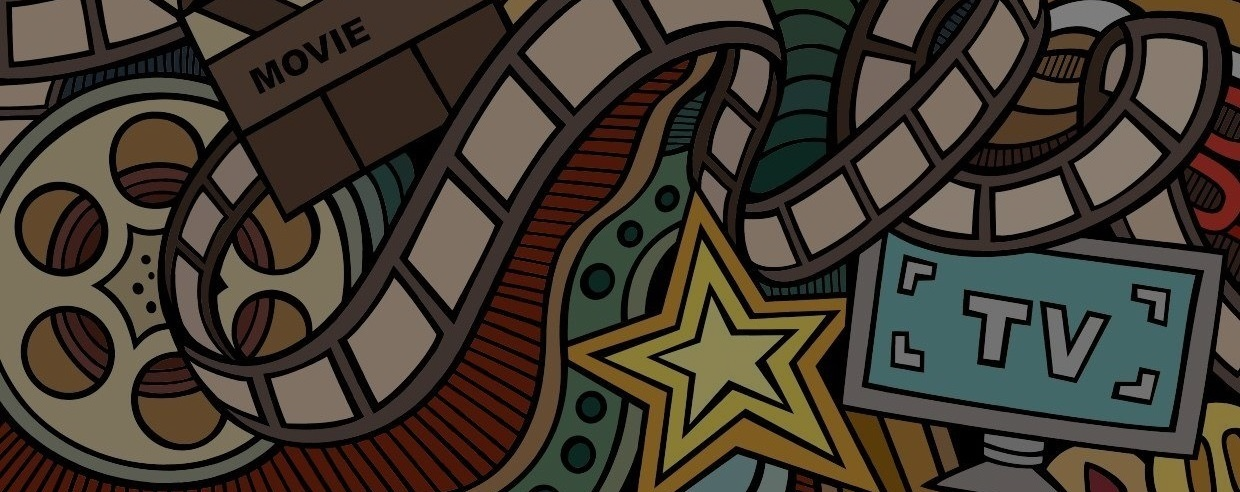
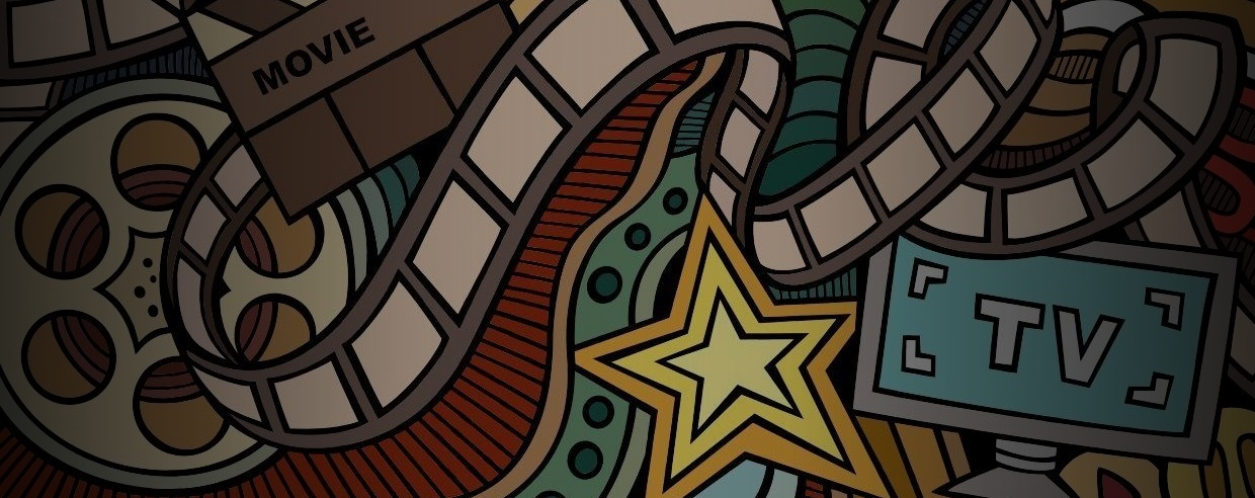
[Updated Landing Page]

diff --git a/src/components/Landing/Landing.js b/src/components/Landing/Landing.js
@@ -3,6 +3,7 @@ import Flash from "react-reveal/Flash";
 
 import classes from "./Landing.module.css";
 import NavBar from "../Navigation/NavBar";
+import Footer from "../UI/Footer/Footer";
 
 class Landing extends Component {
     state = {
@@ -20,10 +21,31 @@ class Landing extends Component {
         return (
             <div className={classes.Landing}>
                 <NavBar />
-                <Flash appear={true} spy={this.state.animate} count={2} duration={200}>
-                    <h1 className={classes.Content}>MOVIE PLEASE</h1>
-                </Flash>
-                <button className={classes.Button}>DIVE IN</button>
+                <div className={classes.Flex}>
+                    <div>
+                        <Flash
+                            appear={true}
+                            spy={this.state.animate}
+                            count={2}
+                            duration={200}
+                        >
+                            <h1 className={classes.Content}>MOVIE PLEASE!</h1>
+                        </Flash>
+                        <p className={classes.P}>Bored? Watch a movie now!</p>
+                        <button className={classes.Button}>Dive In</button>
+                    </div>
+                    <div>
+                        <iframe
+                            width="560"
+                            height="315"
+                            src="https://www.youtube.com/embed/rlR4PJn8b8I?autoplay=1&mute=1"
+                            title="YouTube video player"
+                            frameBorder="0"
+                            allow="fullscreen; accelerometer; autoplay; clipboard-write; encrypted-media; gyroscope; picture-in-picture"
+                        ></iframe>
+                    </div>
+                </div>
+                <Footer />
             </div>
         );
     }

diff --git a/src/components/Landing/Landing.module.css b/src/components/Landing/Landing.module.css
@@ -1,36 +1,58 @@
 .Landing {
   background-image: url("../../assets/background.png");
+  /* background-image: url("../../assets/rect3221.png"); */
   background-size: 100% 100%;
   width: 100vw;
-  height: 100vh;
   position: absolute;
   top: 0;
   left: 0;
+  background-attachment: fixed;
 }
 .Content {
   font-family: "Alfa Slab One", cursive;
-  font-size: 15vh;
-  width: 50vw;
-  margin: 6vh auto 0 auto;
-  color: #ffffff;
+  font-size: 7vw;
+  width: 45vw;
+  margin: auto auto 1.2vh auto;
+  color: white;
   letter-spacing: 11px;
   -webkit-text-stroke-width: 3px;
-  -webkit-text-stroke-color: #ec4646;
+  -webkit-text-stroke-color: #ff0000da;
+  text-align: center;
+  line-height: 15vh;
+}
+.P {
+  font-family: "Alegreya Sans", sans-serif;
+  color: rgb(255, 255, 255);
+  font-size: 2.5vw;
+  margin: 0 auto 3vh 0;
 }
 .Button {
   padding: 1.3vh 1vw;
   font-family: "Alegreya Sans", sans-serif;
-  font-size: 8vh;
+  font-size: 2.5vw;
   background-color: #ec4646;
   border: none;
   cursor: pointer;
   color: white;
   padding: 2vh 10vw;
-  margin-top: 5vh;
+  margin-top: 0vh;
 }
 .Button:hover,
 .Button:active {
-  color: #ec4646;
-  background-color: white;
-  font-size: 10vh;
+  color: white;
+  background-color: black;
+  font-size: 3vw;
+}
+.Flex {
+  display: flex;
+  flex-direction: row;
+  justify-content: space-around;
+  align-items: center;
+  margin-top: 5vh;
+}
+.Flex iframe {
+  /* margin-top: 4vh; */
+  width: 45vw;
+  height: 60vh;
+  box-shadow: 0px 0px 250px rgb(39, 7, 7);
 }

diff --git a/src/components/Navigation/NavBar.js b/src/components/Navigation/NavBar.js
@@ -1,27 +1,27 @@
 import React from "react";
+import { withRouter } from "react-router-dom";
 
 import NavItem from "./NavItem/NavItem";
-import { Route } from "react-router-dom";
 import Logo from "../UI/Logo/Logo";
 import classes from "./NavBar.module.css";
 
 const NavBar = (props) => {
+    // console.log(props);
     return (
         <div className={classes.NavBar}>
             <Logo />
             <ul className={classes.NavItems}>
-                <Route
-                    path="/"
-                    exact
-                    render={() => (
-                        <NavItem link="/signin">
-                            <button className={classes.Button}>Sign In</button>
-                        </NavItem>
-                    )}
-                />
+                <NavItem link="/premium">
+                    <button className={classes.Button + ' ' + classes.Plus}>Get Plus</button>
+                </NavItem>
+                {props.location.pathname === "/" && (
+                    <NavItem link="/signin">
+                        <button className={classes.Button}>Sign In</button>
+                    </NavItem>
+                )}
             </ul>
         </div>
     );
 };
 
-export default NavBar;
+export default withRouter(NavBar);

diff --git a/src/components/UI/Footer/Footer.module.css b/src/components/UI/Footer/Footer.module.css
@@ -1,0 +1,38 @@
+.Footer i {
+  color: white;
+  font-size: 2.5vw;
+  margin-left: 0.3vw;
+}
+:global .fa-instagram-square:hover {
+  background: radial-gradient(
+    circle at 30% 107%,
+    #fdf497 0%,
+    #fdf497 5%,
+    #fd5949 45%,
+    #d6249f 60%,
+    #285aeb 90%
+  );
+  -webkit-background-clip: text;
+  background-clip: text;
+  -webkit-text-fill-color: transparent;
+}
+:global .fa-facebook-square:hover {
+  color: #1873ea;
+}
+:global .fa-twitter-square:hover {
+  color: #1d9cea;
+}
+:global .fa-youtube-square:hover {
+  color: #f24423;
+}
+.Footer {
+  list-style: none;
+  display: flex;
+  width: 14vw;
+  position: relative;
+  left: 42vw;
+  margin-top: 7vh;
+}
+.P{
+    color: white;
+}

diff --git a/src/components/UI/Footer/Footer.js b/src/components/UI/Footer/Footer.js
@@ -1,0 +1,20 @@
+import React from "react";
+
+import Aux from "../../../hoc/Aux/Aux";
+import classes from "./Footer.module.css";
+
+const Footer = (props) => {
+    return (
+        <Aux>
+            <ul className={classes.Footer}>
+                <li><i className="fab fa-instagram-square"></i></li>
+                <li><i className="fab fa-facebook-square"></i></li>
+                <li><i className="fab fa-twitter-square"></i></li>
+                <li><i className="fab fa-youtube-square"></i></li>
+            </ul>
+            <p className={classes.P}>© Binge it 2021</p>
+        </Aux>
+    );
+};
+
+export default Footer;

diff --git a/src/components/UI/Logo/Logo.module.css b/src/components/UI/Logo/Logo.module.css
@@ -1,6 +1,6 @@
 .Logo {
   font-family: "Dancing Script", cursive;
-  font-size: 9vh;
+  font-size: 4.5vw;
   color: white;
   text-align: center;
   -webkit-animation: glow 5s ease-in-out infinite alternate;
@@ -10,8 +10,8 @@
 
 @keyframes glow {
   from {
-    text-shadow: 0 0 3px #fff, 0 0 13px #fff, 0 0 23px #e0d205,
-      0 0 33px #e0d205, 0 0 43px #e0d205, 0 0 53px #e0d205, 0 0 63px #e0d205;
+    text-shadow: 0 0 3px #fff, 0 0 13px #fff, 0 0 23px #ec4646,
+      0 0 33px #ec4646, 0 0 43px #ec4646, 0 0 53px #ec4646, 0 0 63px #ec4646;
   }
   to {
     text-shadow: 0 0 13px #fff, 0 0 23px #ff4da6, 0 0 33px #ff4da6,

diff --git a/src/components/Navigation/NavBar.module.css b/src/components/Navigation/NavBar.module.css
@@ -5,12 +5,15 @@
   margin: 2vh 5vw;
 }
 .NavItems {
+  display: flex;
+  justify-content: space-around;
   list-style: none;
+  flex-direction: row;
 }
 .Button {
   padding: 1.3vh 1vw;
   font-family: "Alegreya Sans", sans-serif;
-  font-size: 4vh;
+  font-size: 1.7vw;
   background-color: #ec4646;
   border: none;
   cursor: pointer;
@@ -21,5 +24,15 @@
 .Button:active {
   color: #ec4646;
   background-color: white;
-  font-size: 5vh;
+  font-size: 1.9vw;
+}
+.Plus {
+  background-color: white;
+  color: #ec4646;
+}
+.Plus:hover,
+.Plus:active {
+  color: white;
+  background-color: #ec4646;
+  font-size: 1.9vw;
 }

diff --git a/src/App.js b/src/App.js
@@ -1,14 +1,17 @@
-import React from 'react';
+import React, { Component } from "react";
+import { Route } from "react-router-dom";
 
-import Landing from './components/Landing/Landing';
-import './App.css';
+import Landing from "./components/Landing/Landing";
+import "./App.css";
 
-function App() {
-  return (
-    <div className="App">
-      <Landing />
-    </div>
-  );
+class App extends Component {
+  render() {
+    return (
+      <div className="App">
+        <Route path="/" component={Landing}/>
+      </div>
+    );
+  }
 }
 
 export default App;

diff --git a/public/index.html b/public/index.html
@@ -11,6 +11,12 @@
     />
     <link rel="preconnect" href="https://fonts.gstatic.com" />
     <link
+      rel="stylesheet"
+      href="https://use.fontawesome.com/releases/v5.15.3/css/all.css"
+      integrity="sha384-SZXxX4whJ79/gErwcOYf+zWLeJdY/qpuqC4cAa9rOGUstPomtqpuNWT9wdPEn2fk"
+      crossorigin="anonymous"
+    />
+    <link
       href="https://fonts.googleapis.com/css2?family=Dancing+Script:wght@700&display=swap"
       rel="stylesheet"
     />

diff --git a/src/index.css b/src/index.css
@@ -5,6 +5,7 @@ body {
     sans-serif;
   -webkit-font-smoothing: antialiased;
   -moz-osx-font-smoothing: grayscale;
+  overflow-x: hidden;
 }
 
 code {

diff --git a/src/App.css b/src/App.css
@@ -1,7 +1,6 @@
 .App {
   text-align: center;
 }
-
 .App-logo {
   height: 40vmin;
   pointer-events: none;

diff --git a/src/components/Navigation/NavItem/NavItem.module.css b/src/components/Navigation/NavItem/NavItem.module.css
@@ -1,4 +1,5 @@
 .NavItem {
   text-decoration: none;
+  margin: auto 1.5vw;
 }
 
